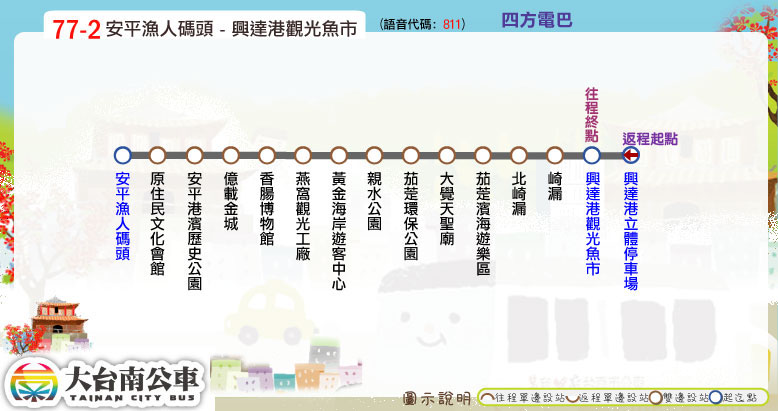
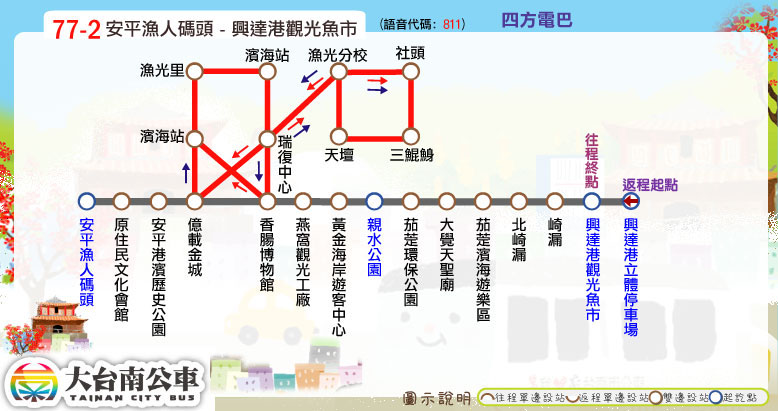
更新路線：77-2路(部分班次行駛「安平漁人碼頭－漁光島－親水公園)

diff --git a/route/fare_and_time/city_bus_77_2.js b/route/fare_and_time/city_bus_77_2.js
@@ -1,9 +1,12 @@
 // format = [time at the start stop] or
 // [time, other] or
 // [time, start_stop, end_stop, other]
-city_bus_77_2_main_stop_name = ["安平<br />漁人碼頭","億載金城","黃金海岸<br />遊客中心","茄萣<br />環保公園","茄萣濱海<br />遊樂區","興達港<br />觀光魚市","興達港<br />立體停車場"];
-city_bus_77_2_main_stop_time_consume = [0, 2, 20, 25, 30, 35, 35];
-city_bus_77_2_important_stop = [0, 2, 5]; // 安平漁人碼頭, 黃金海岸遊客中心, 興達港觀光魚市
-end_stop = 5;
-city_bus_77_2_time_go = [["11:00",0,end_stop],["12:00",0,end_stop],["13:00",0,end_stop],["14:00",0,end_stop],["15:00",0,end_stop],["16:00",0,end_stop]];
-city_bus_77_2_time_return = [["12:00"],["13:00"],["14:00"],["15:00"],["16:00"],["17:00"]];
+city_bus_77_2_main_stop_name = ["安平<br />漁人碼頭","億載金城","漁光里","香腸<br />博物館","黃金海岸<br />遊客中心","親水公園","茄萣濱海<br />遊樂區","興達港<br />觀光魚市","興達港<br />立體停車場"];
+city_bus_77_2_main_stop_time_consume = [0, 2, 6, 10, 20, 25, 30, 35, 35];
+city_bus_77_2_important_stop = [0, 2, 5, 7]; // 安平漁人碼頭, 漁光里, 親水公園, 興達港觀光魚市
+var Anping_Fishermans_Wharf = 0; // 安平漁人碼頭
+var Yuguang_Vil = 2; // 漁光里
+var Riverbank_Park = 5; // 親水公園
+var Singda_Harbor_Fish_Market = 7; // 興達港觀光魚市
+city_bus_77_2_time_go = [["11:00",Anping_Fishermans_Wharf,Singda_Harbor_Fish_Market,[Yuguang_Vil]],["12:00",Anping_Fishermans_Wharf,Singda_Harbor_Fish_Market,[Yuguang_Vil]],["13:00",Anping_Fishermans_Wharf,Riverbank_Park,[[Yuguang_Vil+1,15]]],["14:00",Anping_Fishermans_Wharf,Riverbank_Park,[[Yuguang_Vil+1,15]]],["15:00",Anping_Fishermans_Wharf,Riverbank_Park,[[Yuguang_Vil+1,15]]],["16:00",Anping_Fishermans_Wharf,Riverbank_Park,[[Yuguang_Vil+1,15]]]];
+city_bus_77_2_time_return = [["12:00",[Yuguang_Vil]],["13:00",[Yuguang_Vil]],["14:00",Riverbank_Park,Anping_Fishermans_Wharf,[[Yuguang_Vil,10,Yuguang_Vil-1,5]]],["15:00",Riverbank_Park,Anping_Fishermans_Wharf,[[Yuguang_Vil,10,Yuguang_Vil-1,5]]],["16:00",Riverbank_Park,Anping_Fishermans_Wharf,[[Yuguang_Vil,10,Yuguang_Vil-1,5]]],["17:00",Riverbank_Park,Anping_Fishermans_Wharf,[[Yuguang_Vil,10,Yuguang_Vil-1,5]]]];

diff --git a/urban/77-2.html b/urban/77-2.html
@@ -7,7 +7,7 @@
 	route_name_en = 'No.77-2';
 	route_file_name = 'city_bus_77_2';
 	route_type = 'city_bus';
-	route_interval = ['安平漁人碼頭','興達港觀光魚市'];
+	route_interval = ['安平漁人碼頭','漁光島','興達港觀光魚市'];
 </script>
 <script src="../tools/web_model.js"></script> 
 <script type="text/javascript">
@@ -37,7 +37,7 @@
 		</div>\
 	</div>\
 </div>');
-	block_time_schedule('安平漁人碼頭','興達港觀光魚市','<h1><font color="red">僅假日行駛：星期六、日，以及國定假日</font></h1>');
+	block_time_schedule('安平漁人碼頭','興達港觀光魚市/親水公園','<h1><font color="red">僅假日行駛：星期六、日，以及國定假日</font></h1>');
 	block_transfer(transfer_anping_fishermans_wharf + transfer_aboriginal_culture_center);
 	block_copyright();
 </script>

diff --git a/tools/route_infor.js b/tools/route_infor.js
@@ -116,7 +116,7 @@ urban_20_route = '南紡購物中心 ─ 安南醫院 ─ 海東國小';
 urban_21_route = '臺南火車站 ─ 鹽行 ─ 永康工業區';
 urban_77_route = '安平原住民文化會館 ─ 南紡購物中心';
 urban_77_1_route = '安平漁人碼頭 ─ 安平古堡 ─ 安平漁人碼頭<br /><div class="sub_title">安平環線假日公車</div>';
-urban_77_2_route = '安平漁人碼頭 ─ 興達港觀光魚市';
+urban_77_2_route = '安平漁人碼頭 ─ 漁光島 ─ 興達港觀光魚市';
 urban_239_route = '臺南火車站 ─ 太爺 ─ 茄萣';
 
 tourist_33_route = '新營 ─ 故宮南院 ─ 高鐵嘉義站 ─ 關子嶺　<div class="sub_title">關子嶺故宮南院線</div>';
